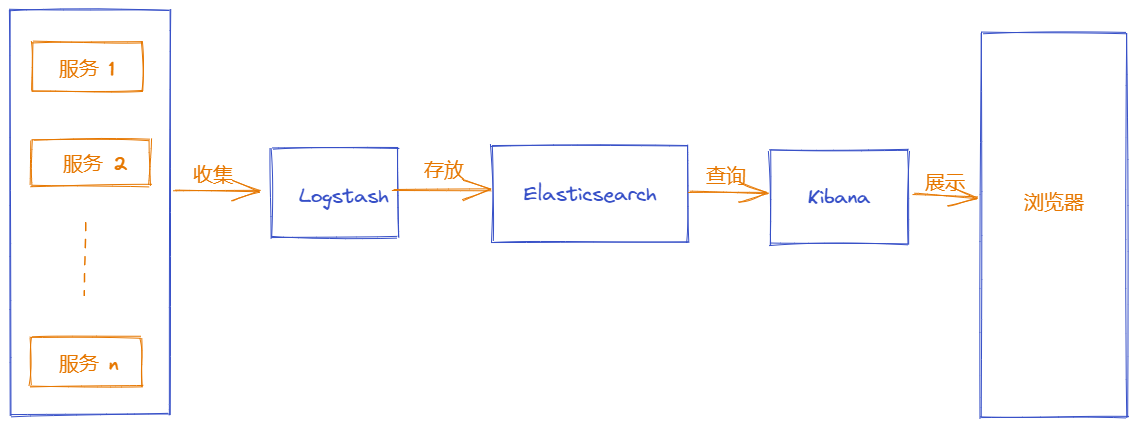
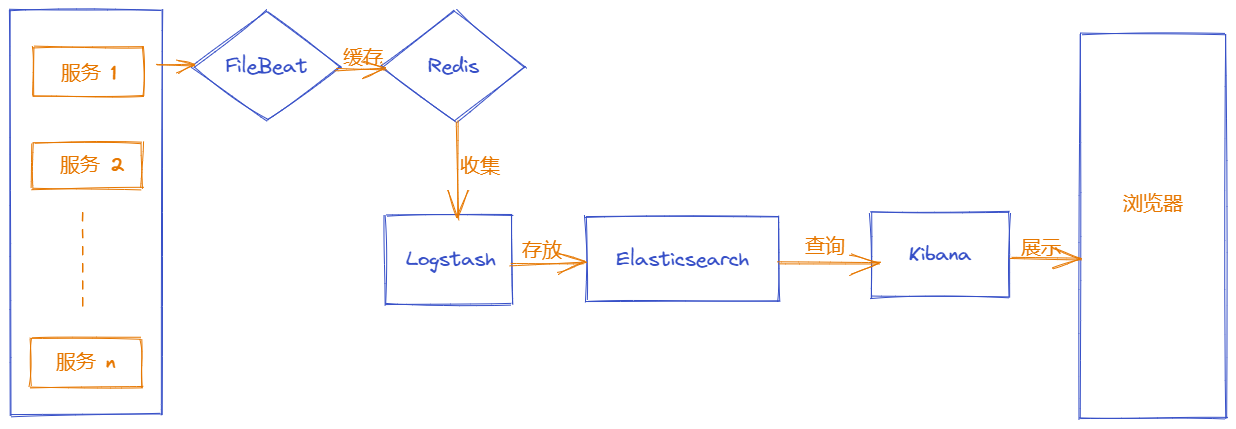
Site updated: 2021-12-22 13:15:32

diff --git a/tags/index.html b/tags/index.html
@@ -182,191 +182,191 @@ color="220,220,220" opacity='0.7' zIndex="-2" count="200" src="//cdnjs.cloudflar
 <main class="app-body">
   <div id="tag-cloud">
     
-      <a class="tag3" data-name="tag-php">php</a>
+      <a class="tag2" data-name="tag-php">php</a>
     
       <a class="tag1" data-name="tag-Alipay">Alipay</a>
     
-      <a class="tag2" data-name="tag-开放平台">开放平台</a>
+      <a class="tag0" data-name="tag-开放平台">开放平台</a>
     
-      <a class="tag1" data-name="tag-CentOS 7">CentOS 7</a>
+      <a class="tag3" data-name="tag-CentOS 7">CentOS 7</a>
     
       <a class="tag0" data-name="tag-git">git</a>
     
       <a class="tag3" data-name="tag-Centos">Centos</a>
     
-      <a class="tag3" data-name="tag-Nginx">Nginx</a>
+      <a class="tag2" data-name="tag-Nginx">Nginx</a>
     
-      <a class="tag3" data-name="tag-MySQL">MySQL</a>
+      <a class="tag1" data-name="tag-MySQL">MySQL</a>
     
-      <a class="tag3" data-name="tag-svn">svn</a>
+      <a class="tag1" data-name="tag-svn">svn</a>
     
-      <a class="tag3" data-name="tag-laradock">laradock</a>
+      <a class="tag1" data-name="tag-laradock">laradock</a>
     
-      <a class="tag3" data-name="tag-centos7">centos7</a>
+      <a class="tag0" data-name="tag-centos7">centos7</a>
     
-      <a class="tag1" data-name="tag-laravel5">laravel5</a>
+      <a class="tag2" data-name="tag-laravel5">laravel5</a>
     
-      <a class="tag3" data-name="tag-docker">docker</a>
+      <a class="tag1" data-name="tag-docker">docker</a>
     
       <a class="tag2" data-name="tag-PHP7">PHP7</a>
     
-      <a class="tag1" data-name="tag-Etcd">Etcd</a>
+      <a class="tag0" data-name="tag-Etcd">Etcd</a>
     
-      <a class="tag1" data-name="tag-golang">golang</a>
+      <a class="tag3" data-name="tag-golang">golang</a>
     
-      <a class="tag0" data-name="tag-lnmp">lnmp</a>
+      <a class="tag1" data-name="tag-lnmp">lnmp</a>
     
       <a class="tag1" data-name="tag-Laragon">Laragon</a>
     
-      <a class="tag2" data-name="tag-Laravel">Laravel</a>
+      <a class="tag3" data-name="tag-Laravel">Laravel</a>
     
-      <a class="tag3" data-name="tag-Windows">Windows</a>
+      <a class="tag2" data-name="tag-Windows">Windows</a>
     
-      <a class="tag1" data-name="tag-laravel5.7">laravel5.7</a>
+      <a class="tag0" data-name="tag-laravel5.7">laravel5.7</a>
     
-      <a class="tag1" data-name="tag-Redis">Redis</a>
+      <a class="tag2" data-name="tag-Redis">Redis</a>
     
       <a class="tag2" data-name="tag-广播">广播</a>
     
       <a class="tag2" data-name="tag-laravel5.6">laravel5.6</a>
     
-      <a class="tag2" data-name="tag-laravel-pay">laravel-pay</a>
+      <a class="tag3" data-name="tag-laravel-pay">laravel-pay</a>
     
-      <a class="tag1" data-name="tag-Event">Event</a>
+      <a class="tag2" data-name="tag-Event">Event</a>
     
-      <a class="tag1" data-name="tag-Vue">Vue</a>
+      <a class="tag2" data-name="tag-Vue">Vue</a>
     
       <a class="tag3" data-name="tag-Linux">Linux</a>
     
-      <a class="tag1" data-name="tag-node.js">node.js</a>
+      <a class="tag3" data-name="tag-node.js">node.js</a>
     
       <a class="tag1" data-name="tag-linux">linux</a>
     
-      <a class="tag2" data-name="tag-Supervisor">Supervisor</a>
+      <a class="tag1" data-name="tag-Supervisor">Supervisor</a>
     
-      <a class="tag2" data-name="tag-crontab">crontab</a>
+      <a class="tag1" data-name="tag-crontab">crontab</a>
     
-      <a class="tag0" data-name="tag--Markdown">-Markdown</a>
+      <a class="tag2" data-name="tag--Markdown">-Markdown</a>
     
-      <a class="tag1" data-name="tag-mysql">mysql</a>
+      <a class="tag2" data-name="tag-mysql">mysql</a>
     
-      <a class="tag0" data-name="tag-nginx">nginx</a>
+      <a class="tag2" data-name="tag-nginx">nginx</a>
     
-      <a class="tag1" data-name="tag-反向代理">反向代理</a>
+      <a class="tag2" data-name="tag-反向代理">反向代理</a>
     
-      <a class="tag2" data-name="tag-PHP5.3+">PHP5.3+</a>
+      <a class="tag1" data-name="tag-PHP5.3+">PHP5.3+</a>
     
       <a class="tag1" data-name="tag-新特性">新特性</a>
     
-      <a class="tag2" data-name="tag-socket">socket</a>
+      <a class="tag3" data-name="tag-socket">socket</a>
     
-      <a class="tag2" data-name="tag-Python">Python</a>
+      <a class="tag1" data-name="tag-Python">Python</a>
     
-      <a class="tag1" data-name="tag-scrapy">scrapy</a>
+      <a class="tag2" data-name="tag-scrapy">scrapy</a>
     
       <a class="tag2" data-name="tag-Swift">Swift</a>
     
-      <a class="tag3" data-name="tag-基础语法">基础语法</a>
+      <a class="tag2" data-name="tag-基础语法">基础语法</a>
     
-      <a class="tag3" data-name="tag-AntV">AntV</a>
+      <a class="tag2" data-name="tag-AntV">AntV</a>
     
-      <a class="tag1" data-name="tag-centos7.3">centos7.3</a>
+      <a class="tag0" data-name="tag-centos7.3">centos7.3</a>
     
-      <a class="tag0" data-name="tag-gin-vue-admin">gin-vue-admin</a>
+      <a class="tag3" data-name="tag-gin-vue-admin">gin-vue-admin</a>
     
       <a class="tag1" data-name="tag-vue">vue</a>
     
-      <a class="tag1" data-name="tag-element-ui">element-ui</a>
+      <a class="tag0" data-name="tag-element-ui">element-ui</a>
     
-      <a class="tag3" data-name="tag-gin">gin</a>
+      <a class="tag2" data-name="tag-gin">gin</a>
     
-      <a class="tag0" data-name="tag-go-zero">go-zero</a>
+      <a class="tag1" data-name="tag-go-zero">go-zero</a>
     
-      <a class="tag2" data-name="tag-goctl">goctl</a>
+      <a class="tag3" data-name="tag-goctl">goctl</a>
     
-      <a class="tag1" data-name="tag-install">install</a>
+      <a class="tag3" data-name="tag-install">install</a>
     
-      <a class="tag3" data-name="tag-laravel5.x">laravel5.x</a>
+      <a class="tag1" data-name="tag-laravel5.x">laravel5.x</a>
     
-      <a class="tag2" data-name="tag-修改器">修改器</a>
+      <a class="tag1" data-name="tag-修改器">修改器</a>
     
-      <a class="tag0" data-name="tag-laravel">laravel</a>
+      <a class="tag1" data-name="tag-laravel">laravel</a>
     
-      <a class="tag0" data-name="tag-web-wechat">web-wechat</a>
+      <a class="tag1" data-name="tag-web-wechat">web-wechat</a>
     
       <a class="tag2" data-name="tag-laravel-admin">laravel-admin</a>
     
-      <a class="tag0" data-name="tag-字段排序">字段排序</a>
+      <a class="tag1" data-name="tag-字段排序">字段排序</a>
     
-      <a class="tag2" data-name="tag-laravel5.3">laravel5.3</a>
+      <a class="tag3" data-name="tag-laravel5.3">laravel5.3</a>
     
       <a class="tag1" data-name="tag-queue">queue</a>
     
-      <a class="tag1" data-name="tag-laravel5.5">laravel5.5</a>
+      <a class="tag0" data-name="tag-laravel5.5">laravel5.5</a>
     
-      <a class="tag2" data-name="tag-redis">redis</a>
+      <a class="tag0" data-name="tag-redis">redis</a>
     
-      <a class="tag0" data-name="tag-Innodb">Innodb</a>
+      <a class="tag2" data-name="tag-Innodb">Innodb</a>
     
-      <a class="tag1" data-name="tag-递归">递归</a>
+      <a class="tag0" data-name="tag-递归">递归</a>
     
-      <a class="tag3" data-name="tag-负载均衡">负载均衡</a>
+      <a class="tag1" data-name="tag-负载均衡">负载均衡</a>
     
       <a class="tag2" data-name="tag-socket.io">socket.io</a>
     
-      <a class="tag0" data-name="tag-nodejs">nodejs</a>
+      <a class="tag3" data-name="tag-nodejs">nodejs</a>
     
       <a class="tag3" data-name="tag-sublime text3">sublime text3</a>
     
-      <a class="tag2" data-name="tag-vim">vim</a>
+      <a class="tag0" data-name="tag-vim">vim</a>
     
-      <a class="tag2" data-name="tag-vue-element-admin">vue-element-admin</a>
+      <a class="tag3" data-name="tag-vue-element-admin">vue-element-admin</a>
     
-      <a class="tag1" data-name="tag-Tailwind-CSS">Tailwind-CSS</a>
+      <a class="tag2" data-name="tag-Tailwind-CSS">Tailwind-CSS</a>
     
-      <a class="tag0" data-name="tag-github">github</a>
+      <a class="tag2" data-name="tag-github">github</a>
     
-      <a class="tag2" data-name="tag-composer - 扩展包">composer - 扩展包</a>
+      <a class="tag3" data-name="tag-composer - 扩展包">composer - 扩展包</a>
     
-      <a class="tag1" data-name="tag-composer">composer</a>
+      <a class="tag2" data-name="tag-composer">composer</a>
     
       <a class="tag2" data-name="tag-mqtt">mqtt</a>
     
       <a class="tag2" data-name="tag-Safari">Safari</a>
     
-      <a class="tag3" data-name="tag-Copy">Copy</a>
+      <a class="tag0" data-name="tag-Copy">Copy</a>
     
-      <a class="tag0" data-name="tag-thinkphp">thinkphp</a>
+      <a class="tag2" data-name="tag-thinkphp">thinkphp</a>
     
-      <a class="tag2" data-name="tag-银联支付">银联支付</a>
+      <a class="tag0" data-name="tag-银联支付">银联支付</a>
     
-      <a class="tag0" data-name="tag-b2c网关">b2c网关</a>
+      <a class="tag1" data-name="tag-b2c网关">b2c网关</a>
     
-      <a class="tag1" data-name="tag-Vue3">Vue3</a>
+      <a class="tag2" data-name="tag-Vue3">Vue3</a>
     
       <a class="tag1" data-name="tag-Vite">Vite</a>
     
-      <a class="tag2" data-name="tag-TypeScript">TypeScript</a>
+      <a class="tag1" data-name="tag-TypeScript">TypeScript</a>
     
-      <a class="tag3" data-name="tag-vant">vant</a>
+      <a class="tag1" data-name="tag-vant">vant</a>
     
       <a class="tag1" data-name="tag-DNMP">DNMP</a>
     
-      <a class="tag2" data-name="tag-Portainer">Portainer</a>
+      <a class="tag3" data-name="tag-Portainer">Portainer</a>
     
       <a class="tag1" data-name="tag-公众号">公众号</a>
     
-      <a class="tag0" data-name="tag-轮询">轮询</a>
+      <a class="tag1" data-name="tag-轮询">轮询</a>
     
       <a class="tag1" data-name="tag-数组">数组</a>
     
-      <a class="tag2" data-name="tag-Chinapay">Chinapay</a>
+      <a class="tag0" data-name="tag-Chinapay">Chinapay</a>
     
-      <a class="tag2" data-name="tag-银联电子">银联电子</a>
+      <a class="tag1" data-name="tag-银联电子">银联电子</a>
     
       <a class="tag3" data-name="tag-gRPC">gRPC</a>
     
-      <a class="tag2" data-name="tag-ELK">ELK</a>
+      <a class="tag1" data-name="tag-ELK">ELK</a>
     
   </div>
   

diff --git a/2021/12/22/Docker下实践ELK-Elasticsearch、Logstash、Kibana/index.html b/2021/12/22/Docker下实践ELK-Elasticsearch、Logstash、Kibana/index.html
@@ -206,7 +206,15 @@ color="220,220,220" opacity='0.7' zIndex="-2" count="200" src="//cdnjs.cloudflar
 <blockquote>
 <p>Kibana 让您能够<code>可视化 Elasticsearch</code> 中的数据并操作 Elastic Stack。</p>
 </blockquote>
-<p>整体架构图：<br><a href="https://excalidraw.com/" target="_blank">[ 画图工具 ]</a><br><img src="/assets/blogImg/elk1.png" alt="elk"></p>
+<p><strong>整体架构流程图：</strong><br><a href="https://excalidraw.com/" target="_blank">[ 画图工具 ]</a></p>
+<ul>
+<li>filebeat: 负责将日志数据传输到 redis</li>
+<li>Redis：暂时进行缓存</li>
+<li>logstash: 收集缓存中的日志数据</li>
+<li>elasticsearch: 负责存储日志数据</li>
+<li>kibana: 负责显示日志的数据</li>
+</ul>
+<p><img src="/assets/blogImg/elk1.png" alt="elk"></p>
 </section>
     
       <div class="tags">
